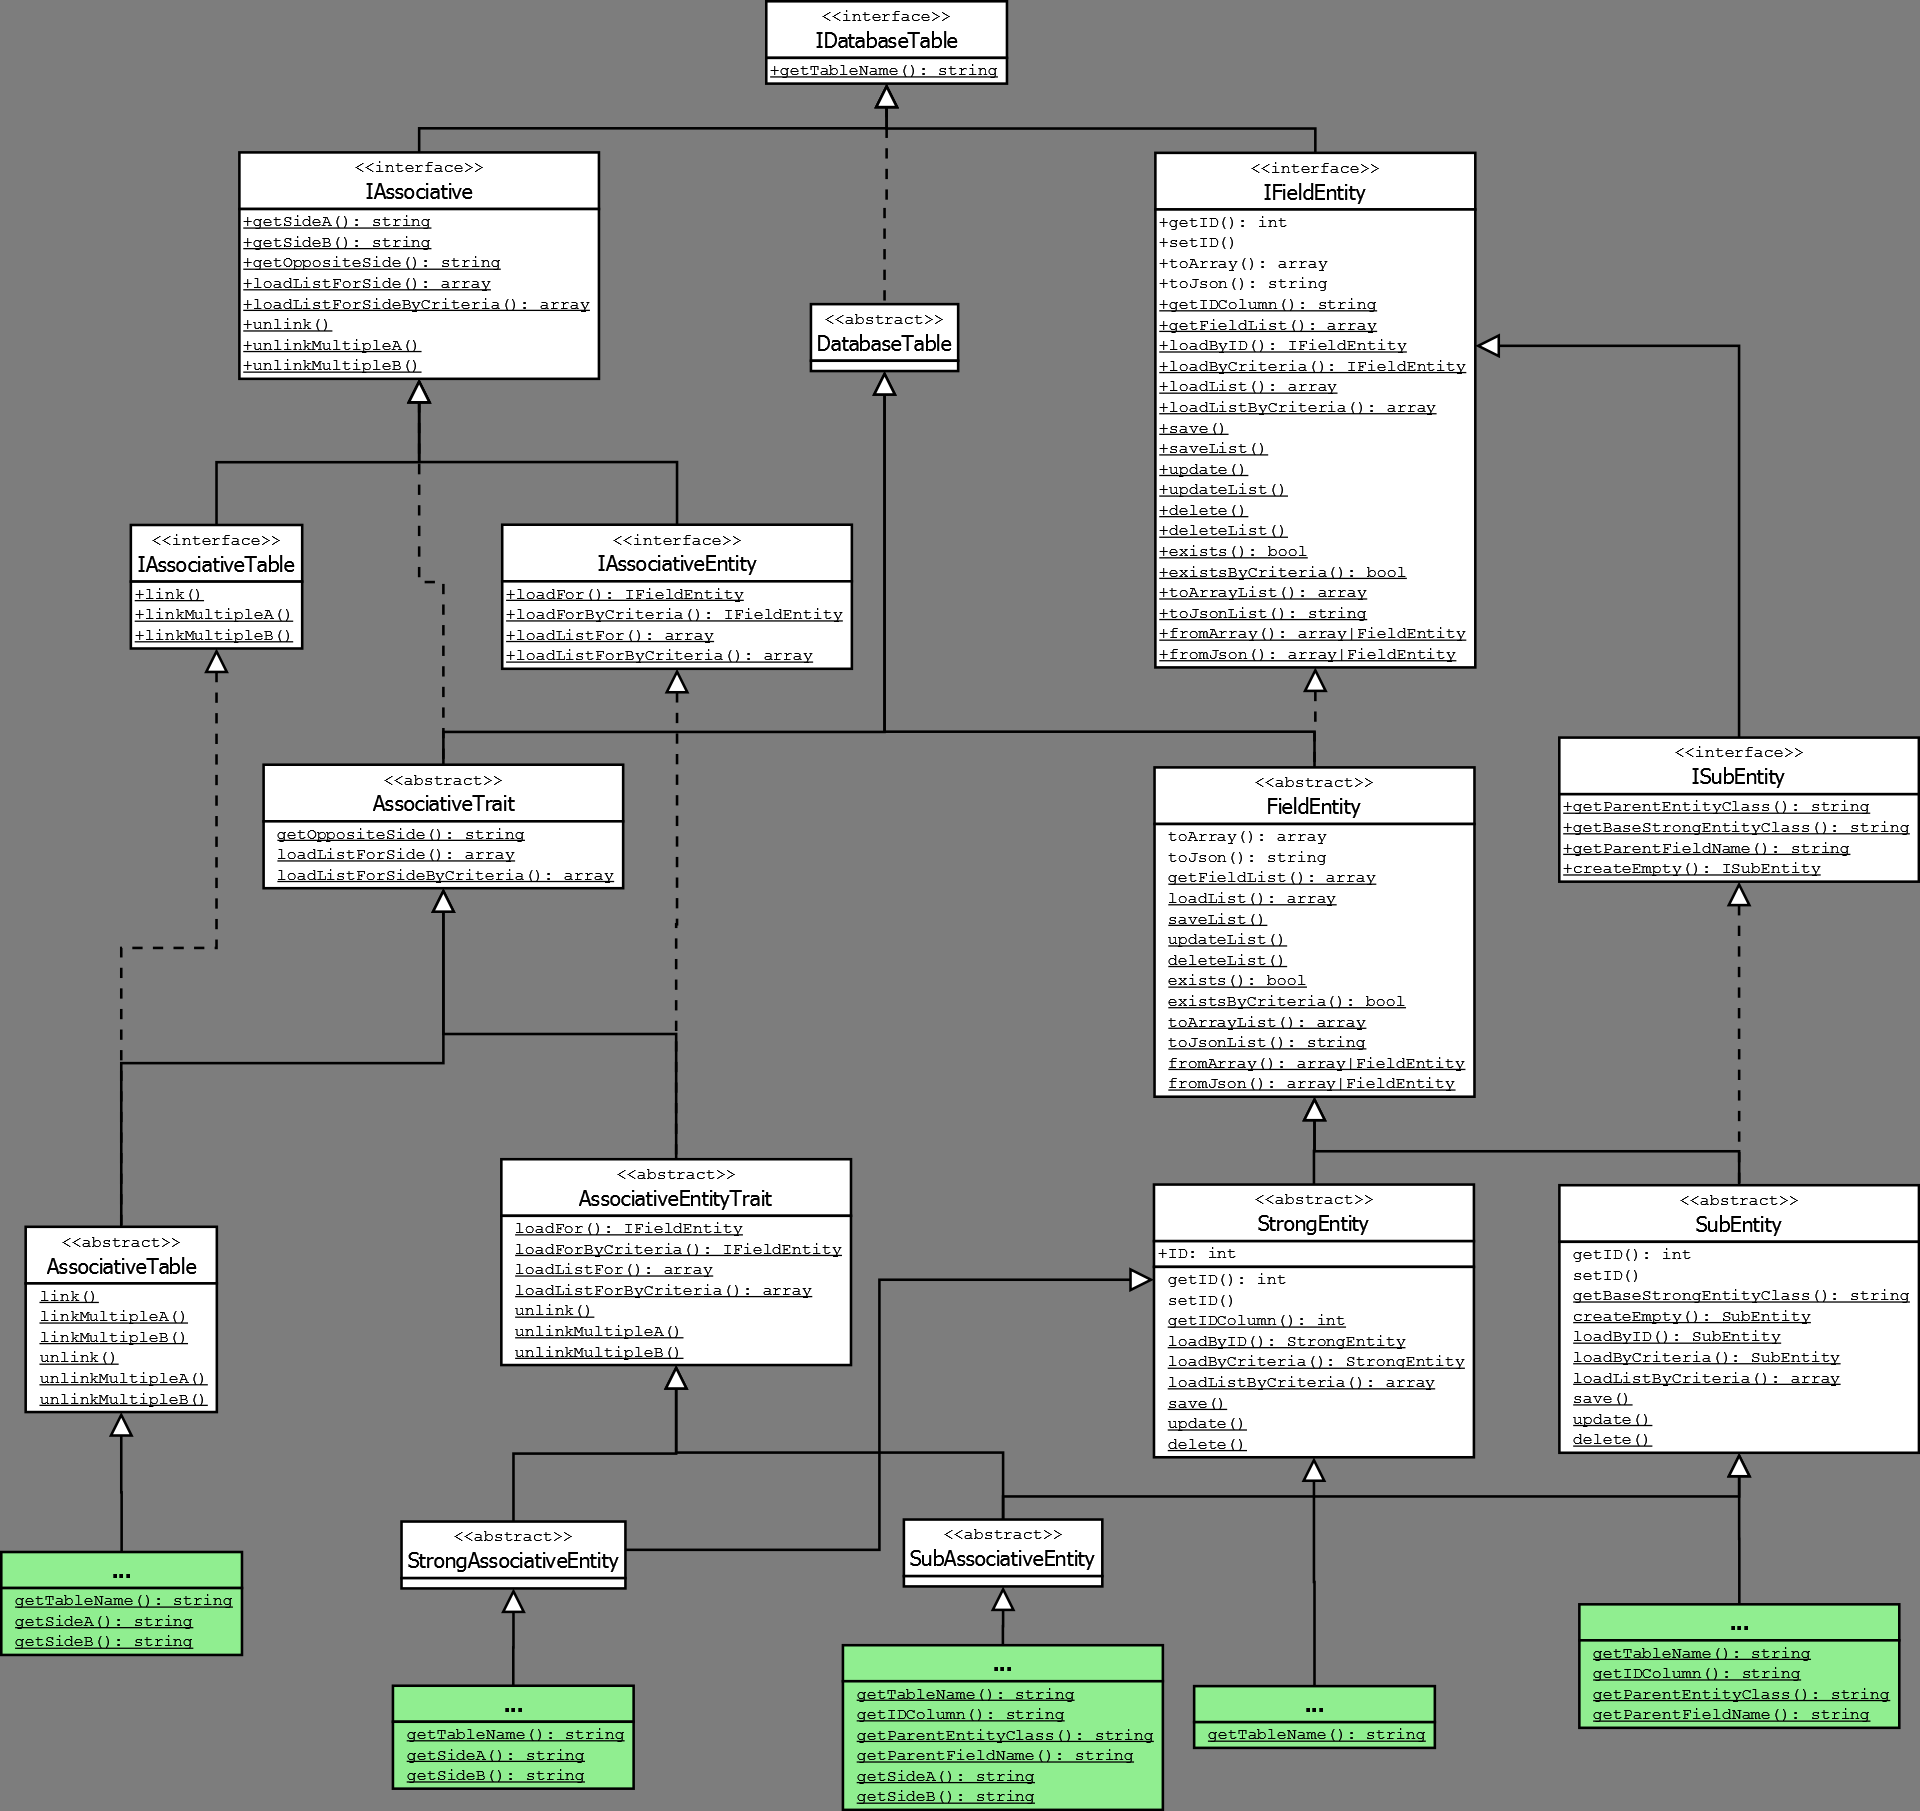
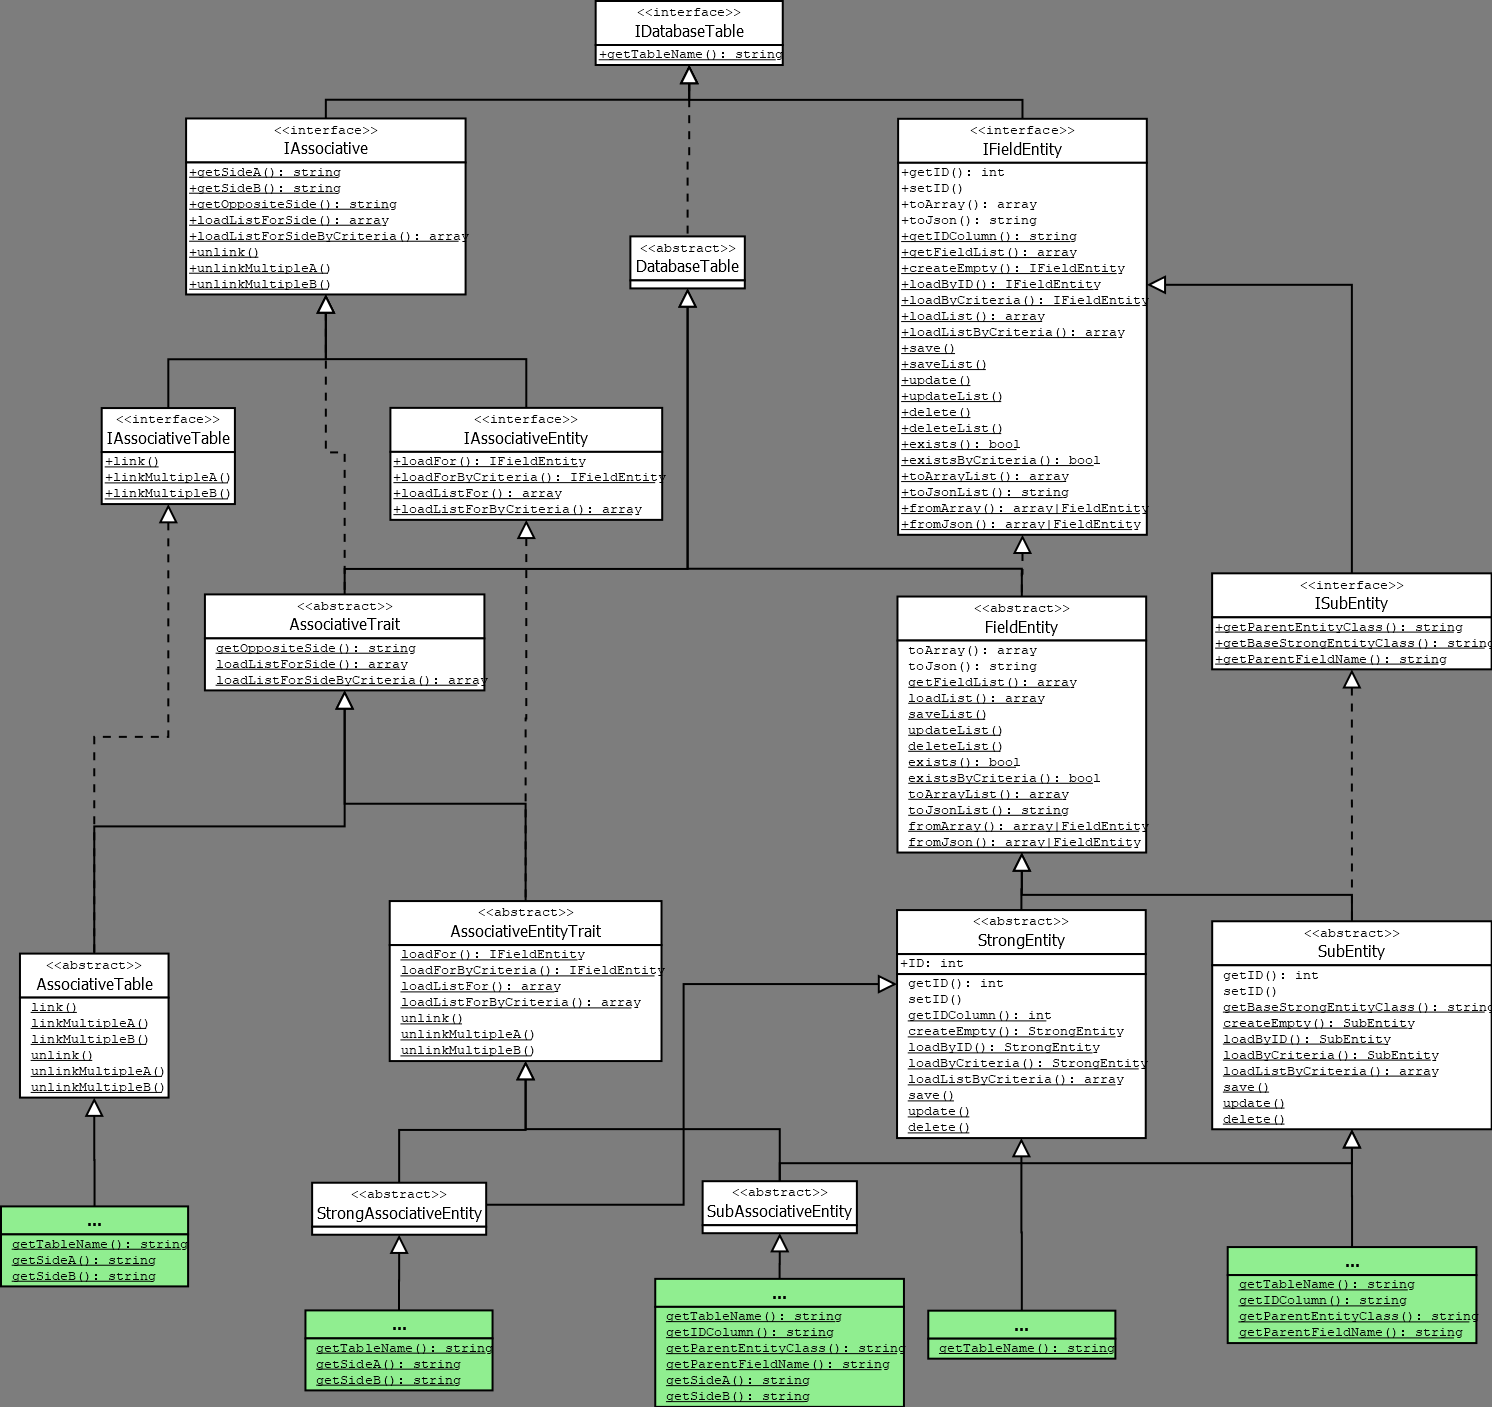
Moved createEmpty up to IFieldEntity.

diff --git a/src/Entity/StrongEntity.php b/src/Entity/StrongEntity.php
@@ -52,6 +52,18 @@ abstract class StrongEntity extends FieldEntity
 	}
 	
 	/**
+	 * Creates an empty instance of this StrongEntity. Simply creates a new object of the called entity class.
+	 * 
+	 * @return StrongEntity
+	 */
+	public static function createEmpty()
+	{
+		$calledClass=get_called_class();
+		$entity=new $calledClass();
+		return $entity;
+	}
+	
+	/**
 	 * @param int $ID
 	 * @param array $fields
 	 * @param array $fieldsToIgnore

diff --git a/src/Entity/IFieldEntity.php b/src/Entity/IFieldEntity.php
@@ -88,6 +88,13 @@ interface IFieldEntity extends IDatabaseTable
 	static function fromJson($json);
 	
 	/**
+	 * Creates an empty instance of the called entity class. Especially useful for SubEntity types for initializing parents.
+	 * 
+	 * @return IFieldEntity
+	 */
+	static function createEmpty();
+	
+	/**
 	 * @return string
 	 */
 	static function getIDColumn();

diff --git a/src/Entity/ISubEntity.php b/src/Entity/ISubEntity.php
@@ -32,11 +32,4 @@ interface ISubEntity extends IFieldEntity
 	 * @return string
 	 */
 	static function getParentFieldName();
-	
-	/**
-	 * Creates an empty instance of this SubEntity, with initialized parents.
-	 * 
-	 * @return SubEntity
-	 */
-	static function createEmpty();
 }
